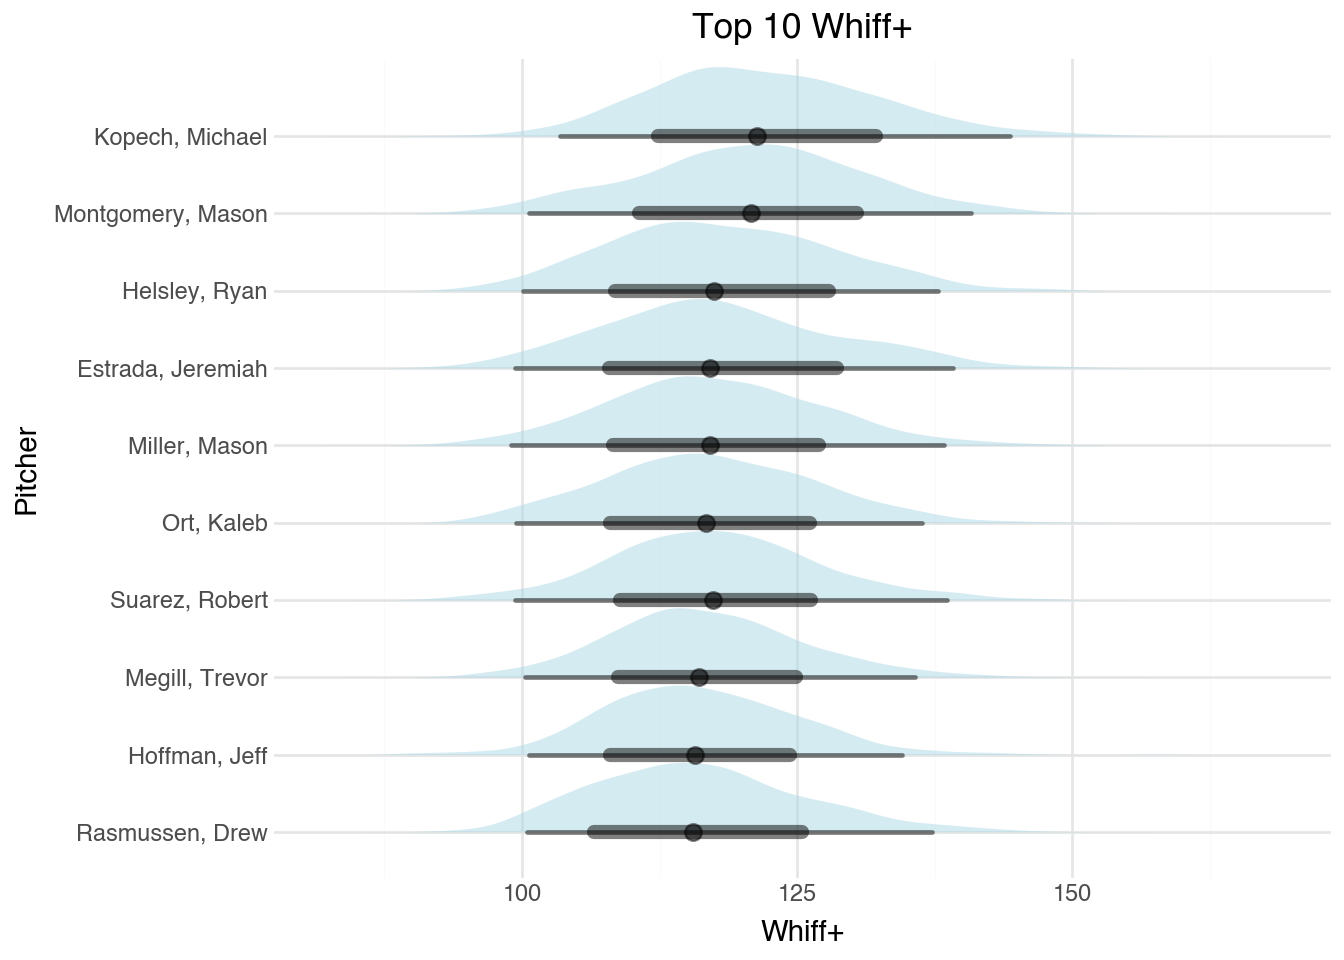
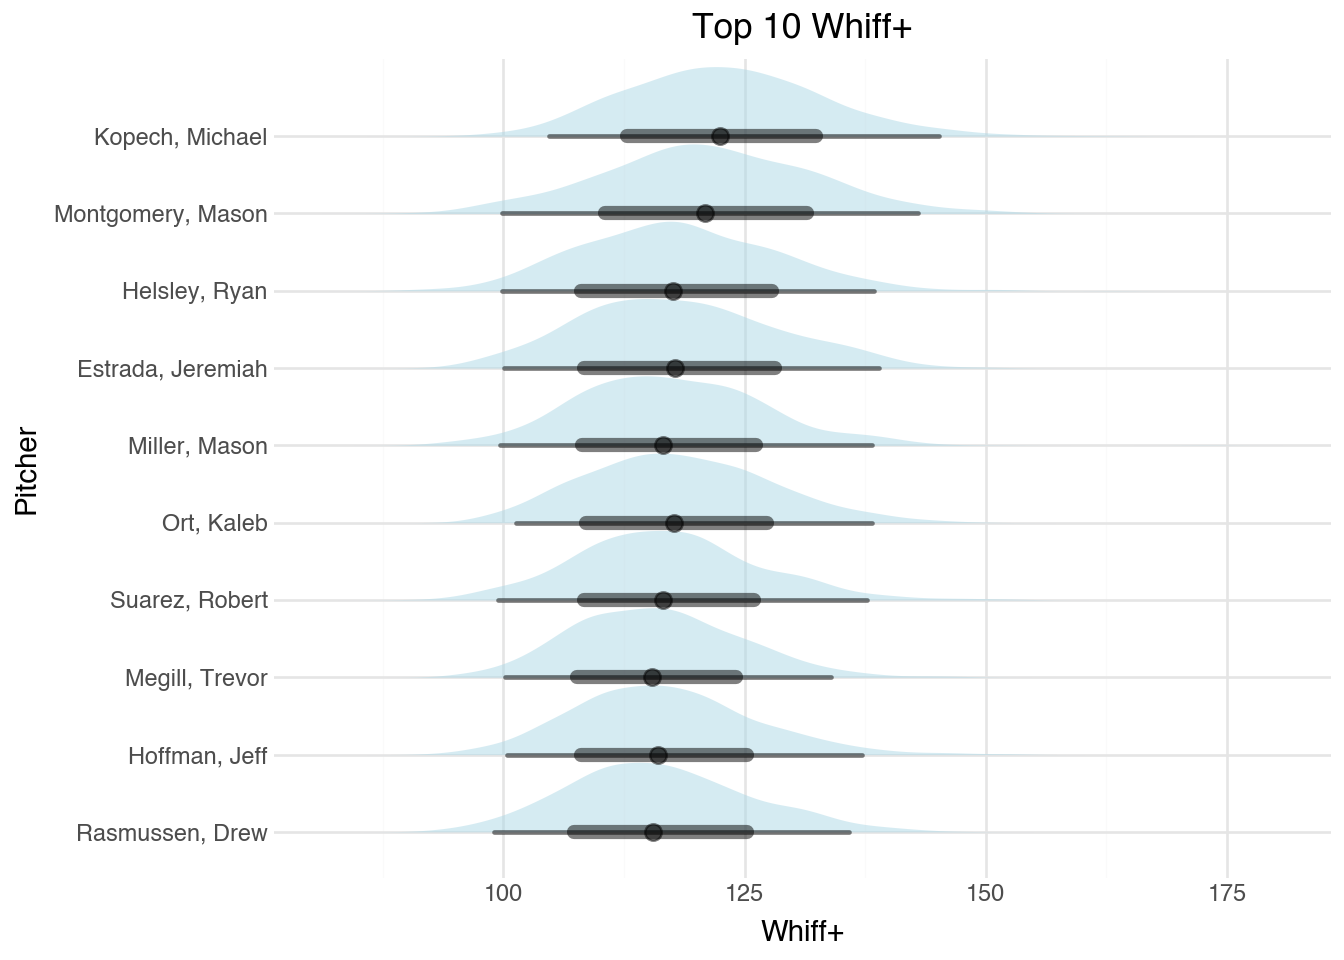
send it

diff --git a/_site/posts/2026-02-20-pymc-bart-baseball/index.html b/_site/posts/2026-02-20-pymc-bart-baseball/index.html
@@ -295,7 +295,13 @@ Note
 </section>
 <section id="model" class="level2">
 <h2 class="anchored" data-anchor-id="model">Model</h2>
-<p>The first model replicates PyMC Lab’s 4-feature model. If my sports logic is somewhat correct for how they filtered the data, the rest was fairly straightforward. - filter for <code>4-Seam Fastball</code> - calculate whiffs as swings - I removed 200 records with null values - Split into train/test splits</p>
+<p>The first model replicates PyMC Lab’s 4-feature model. If my sports logic is somewhat correct for how they filtered the data, the rest was fairly straightforward.</p>
+<ul>
+<li>filter for <code>4-Seam Fastball</code></li>
+<li>calculate whiffs as swings</li>
+<li>I removed 200 records with null values</li>
+<li>Split into train/test splits</li>
+</ul>
 <div class="cell" data-execution_count="3">
 <details>
 <summary>Code</summary>
@@ -351,11 +357,22 @@ Note
 <span id="cb3-50"><a href="#cb3-50" aria-hidden="true" tabindex="-1"></a>coords <span class="op">=</span> {<span class="st">"obs"</span>: player_names_train}</span></code><button title="Copy to Clipboard" class="code-copy-button"><i class="bi"></i></button></pre></div>
 </details>
 </div>
-<p>{::: {.callout-caution}</p>
+<div class="callout callout-style-default callout-caution callout-titled">
+<div class="callout-header d-flex align-content-center">
+<div class="callout-icon-container">
+<i class="callout-icon"></i>
+</div>
+<div class="callout-title-container flex-fill">
+Caution
+</div>
+</div>
+<div class="callout-body-container callout-body">
 <p>Working with the posterior <code>az.InferenceData</code> object turned out to have different behavior than expected. One of the biggest gotchas was how BART models are saved to disk, and the tree information you lose when starting a new session. I’ve implemented it below, but it is covered in this <a href="https://github.com/pymc-devs/pymc-bart/issues/123#issuecomment-3105432020">GitHub issue</a></p>
 <p>Essentially I was able to still save the object and load it into new sessions to continue working with the posterior, however the tree information was not saved with the object (that is the extent of my understanding). Coming back to this in a new session, only the posterior distributions for the saved parameters and values were available. Predictions were all off.</p>
 <p>I ended up finding a solution documented in this <a href="https://github.com/pymc-devs/pymc-bart/issues/123#issuecomment-3105432020">GitHub issue</a>.</p>
-<p>So here, I’m saving the <code>az.InferenceData</code> object and additionally a pickle file of the trees. Later on I used the functions in that github issue to do predictions. :::}</p>
+<p>So here, I’m saving the <code>az.InferenceData</code> object and additionally a pickle file of the trees. Later on I used the functions in that github issue to do predictions.</p>
+</div>
+</div>
 <div class="cell" data-execution_count="4">
 <div class="sourceCode cell-code" id="cb4"><pre class="sourceCode python code-with-copy"><code class="sourceCode python"><span id="cb4-1"><a href="#cb4-1" aria-hidden="true" tabindex="-1"></a><span class="cf">if</span> (</span>
 <span id="cb4-2"><a href="#cb4-2" aria-hidden="true" tabindex="-1"></a>    RERUN</span>
@@ -424,13 +441,13 @@ Note
 <h3 class="anchored" data-anchor-id="calibration-plots">Calibration Plots</h3>
 <div class="cell" data-execution_count="8">
 <div class="sourceCode cell-code" id="cb8"><pre class="sourceCode python code-with-copy"><code class="sourceCode python"><span id="cb8-1"><a href="#cb8-1" aria-hidden="true" tabindex="-1"></a>calibration_plot(p_train, y_train, label<span class="op">=</span><span class="st">"Train"</span>)</span></code><button title="Copy to Clipboard" class="code-copy-button"><i class="bi"></i></button></pre></div>
-<div class="cell-output cell-output-display" data-execution_count="7">
+<div class="cell-output cell-output-display" data-execution_count="25">
 <p><img src="index_files/figure-html/cell-9-output-1.png" width="672" height="480"></p>
 </div>
 </div>
 <div class="cell" data-execution_count="9">
 <div class="sourceCode cell-code" id="cb9"><pre class="sourceCode python code-with-copy"><code class="sourceCode python"><span id="cb9-1"><a href="#cb9-1" aria-hidden="true" tabindex="-1"></a>calibration_plot(p_test, y_test, label<span class="op">=</span><span class="st">"Test"</span>)</span></code><button title="Copy to Clipboard" class="code-copy-button"><i class="bi"></i></button></pre></div>
-<div class="cell-output cell-output-display" data-execution_count="8">
+<div class="cell-output cell-output-display" data-execution_count="26">
 <p><img src="index_files/figure-html/cell-10-output-1.png" width="672" height="480"></p>
 </div>
 </div>
@@ -461,7 +478,7 @@ Note
 <span id="cb11-2"><a href="#cb11-2" aria-hidden="true" tabindex="-1"></a>    pl.col(<span class="st">"whiff_plus"</span>).median()</span>
 <span id="cb11-3"><a href="#cb11-3" aria-hidden="true" tabindex="-1"></a>).sort(<span class="st">"whiff_plus"</span>, descending<span class="op">=</span><span class="va">True</span>)</span>
 <span id="cb11-4"><a href="#cb11-4" aria-hidden="true" tabindex="-1"></a>leaderboard</span></code><button title="Copy to Clipboard" class="code-copy-button"><i class="bi"></i></button></pre></div>
-<div class="cell-output cell-output-display" data-execution_count="10">
+<div class="cell-output cell-output-display" data-execution_count="28">
 <div><style>
 .dataframe > thead > tr,
 .dataframe > tbody > tr {
@@ -536,7 +553,7 @@ Note
 <h3 class="anchored" data-anchor-id="visualizing-the-leaderboard">Visualizing the leaderboard</h3>
 <p>The size of the dataset did not lend well to work with the new package. In its current state, <code>bayestidy</code> will convert everything to pandas in underlying <code>plotnine</code> functions, as it is yet to have first class <code>polars</code> support.</p>
 <div class="callout callout-style-default callout-note callout-titled">
-<div class="callout-header d-flex align-content-center" data-bs-toggle="collapse" data-bs-target=".callout-2-contents" aria-controls="callout-2" aria-expanded="false" aria-label="Toggle callout">
+<div class="callout-header d-flex align-content-center" data-bs-toggle="collapse" data-bs-target=".callout-3-contents" aria-controls="callout-3" aria-expanded="false" aria-label="Toggle callout">
 <div class="callout-icon-container">
 <i class="callout-icon"></i>
 </div>
@@ -545,7 +562,7 @@ Note
 </div>
 <div class="callout-btn-toggle d-inline-block border-0 py-1 ps-1 pe-0 float-end"><i class="callout-toggle"></i></div>
 </div>
-<div id="callout-2" class="callout-2-contents callout-collapse collapse">
+<div id="callout-3" class="callout-3-contents callout-collapse collapse">
 <div class="callout-body-container callout-body">
 <p>This is a long-standing <a href="https://github.com/has2k1/plotnine/issues/602">issue</a> that needs a solution, outside of polars from what I can tell.</p>
 </div>
@@ -607,7 +624,7 @@ Note
 <span id="cb14-4"><a href="#cb14-4" aria-hidden="true" tabindex="-1"></a></span>
 <span id="cb14-5"><a href="#cb14-5" aria-hidden="true" tabindex="-1"></a>plot_top</span></code><button title="Copy to Clipboard" class="code-copy-button"><i class="bi"></i></button></pre></div>
 </details>
-<div class="cell-output cell-output-display" data-execution_count="12">
+<div class="cell-output cell-output-display" data-execution_count="30">
 <p><img src="index_files/figure-html/cell-14-output-1.png" width="672" height="480"></p>
 </div>
 </div>
@@ -616,7 +633,7 @@ Note
 <summary>Code</summary>
 <div class="sourceCode cell-code" id="cb15"><pre class="sourceCode python code-with-copy"><code class="sourceCode python"><span id="cb15-1"><a href="#cb15-1" aria-hidden="true" tabindex="-1"></a>plot_bottom</span></code><button title="Copy to Clipboard" class="code-copy-button"><i class="bi"></i></button></pre></div>
 </details>
-<div class="cell-output cell-output-display" data-execution_count="13">
+<div class="cell-output cell-output-display" data-execution_count="31">
 <p><img src="index_files/figure-html/cell-15-output-1.png" width="672" height="480"></p>
 </div>
 </div>
@@ -798,13 +815,13 @@ Note
 </div>
 <div class="cell" data-execution_count="18">
 <div class="sourceCode cell-code" id="cb19"><pre class="sourceCode python code-with-copy"><code class="sourceCode python"><span id="cb19-1"><a href="#cb19-1" aria-hidden="true" tabindex="-1"></a>calibration_plot(p_imp_train, y_imp_train, label<span class="op">=</span><span class="st">"Train (Improved)"</span>)</span></code><button title="Copy to Clipboard" class="code-copy-button"><i class="bi"></i></button></pre></div>
-<div class="cell-output cell-output-display" data-execution_count="17">
+<div class="cell-output cell-output-display" data-execution_count="35">
 <p><img src="index_files/figure-html/cell-19-output-1.png" width="672" height="480"></p>
 </div>
 </div>
 <div class="cell" data-execution_count="19">
 <div class="sourceCode cell-code" id="cb20"><pre class="sourceCode python code-with-copy"><code class="sourceCode python"><span id="cb20-1"><a href="#cb20-1" aria-hidden="true" tabindex="-1"></a>calibration_plot(p_imp_test, y_imp_test, label<span class="op">=</span><span class="st">"Test (Improved)"</span>)</span></code><button title="Copy to Clipboard" class="code-copy-button"><i class="bi"></i></button></pre></div>
-<div class="cell-output cell-output-display" data-execution_count="18">
+<div class="cell-output cell-output-display" data-execution_count="36">
 <p><img src="index_files/figure-html/cell-20-output-1.png" width="672" height="480"></p>
 </div>
 </div>
@@ -830,7 +847,7 @@ Note
 <span id="cb21-13"><a href="#cb21-13" aria-hidden="true" tabindex="-1"></a>)</span>
 <span id="cb21-14"><a href="#cb21-14" aria-hidden="true" tabindex="-1"></a>leaderboard_imp</span></code><button title="Copy to Clipboard" class="code-copy-button"><i class="bi"></i></button></pre></div>
 </details>
-<div class="cell-output cell-output-display" data-execution_count="19">
+<div class="cell-output cell-output-display" data-execution_count="37">
 <div><style>
 .dataframe > thead > tr,
 .dataframe > tbody > tr {
@@ -932,7 +949,7 @@ Note
 <span id="cb22-14"><a href="#cb22-14" aria-hidden="true" tabindex="-1"></a></span>
 <span id="cb22-15"><a href="#cb22-15" aria-hidden="true" tabindex="-1"></a>plot_top_imp</span></code><button title="Copy to Clipboard" class="code-copy-button"><i class="bi"></i></button></pre></div>
 </details>
-<div class="cell-output cell-output-display" data-execution_count="20">
+<div class="cell-output cell-output-display" data-execution_count="38">
 <p><img src="index_files/figure-html/cell-22-output-1.png" width="672" height="480"></p>
 </div>
 </div>
@@ -941,7 +958,7 @@ Note
 <summary>Code</summary>
 <div class="sourceCode cell-code" id="cb23"><pre class="sourceCode python code-with-copy"><code class="sourceCode python"><span id="cb23-1"><a href="#cb23-1" aria-hidden="true" tabindex="-1"></a>plot_bottom_imp</span></code><button title="Copy to Clipboard" class="code-copy-button"><i class="bi"></i></button></pre></div>
 </details>
-<div class="cell-output cell-output-display" data-execution_count="21">
+<div class="cell-output cell-output-display" data-execution_count="39">
 <p><img src="index_files/figure-html/cell-23-output-1.png" width="672" height="480"></p>
 </div>
 </div>
@@ -975,7 +992,7 @@ Note
 <span id="cb24-21"><a href="#cb24-21" aria-hidden="true" tabindex="-1"></a>    <span class="op">+</span> theme_minimal()</span>
 <span id="cb24-22"><a href="#cb24-22" aria-hidden="true" tabindex="-1"></a>    <span class="op">+</span> theme(panel_grid_minor<span class="op">=</span>element_blank())</span>
 <span id="cb24-23"><a href="#cb24-23" aria-hidden="true" tabindex="-1"></a>)</span></code><button title="Copy to Clipboard" class="code-copy-button"><i class="bi"></i></button></pre></div>
-<div class="cell-output cell-output-display" data-execution_count="22">
+<div class="cell-output cell-output-display" data-execution_count="40">
 <p><img src="index_files/figure-html/cell-24-output-1.png" width="672" height="480"></p>
 </div>
 </div>
@@ -1033,7 +1050,7 @@ Note
 <span id="cb26-16"><a href="#cb26-16" aria-hidden="true" tabindex="-1"></a>    <span class="op">+</span> theme(panel_grid_minor<span class="op">=</span> element_blank(), panel_grid_major_y<span class="op">=</span>element_blank(), legend_position<span class="op">=</span><span class="st">'bottom'</span>)</span>
 <span id="cb26-17"><a href="#cb26-17" aria-hidden="true" tabindex="-1"></a>    <span class="op">+</span> labs(y <span class="op">=</span> <span class="st">''</span>, title<span class="op">=</span><span class="st">"Kopech estimated parameter comparison"</span>)</span>
 <span id="cb26-18"><a href="#cb26-18" aria-hidden="true" tabindex="-1"></a>)</span></code><button title="Copy to Clipboard" class="code-copy-button"><i class="bi"></i></button></pre></div>
-<div class="cell-output cell-output-display" data-execution_count="24">
+<div class="cell-output cell-output-display" data-execution_count="42">
 <p><img src="index_files/figure-html/cell-26-output-1.png" width="672" height="480"></p>
 </div>
 </div>

diff --git a/_site/index.html b/_site/index.html
@@ -170,7 +170,7 @@ ul.task-list li input[type="checkbox"] {
 
 <div class="quarto-listing quarto-listing-container-default" id="listing-listing">
 <div class="list quarto-listing-default">
-<div class="quarto-post image-right" data-index="0" data-categories="Bayesian,PyMC,BART" data-listing-date-sort="1771570800000" data-listing-file-modified-sort="1771968080340" data-listing-date-modified-sort="NaN" data-listing-reading-time-sort="19">
+<div class="quarto-post image-right" data-index="0" data-categories="Bayesian,PyMC,BART" data-listing-date-sort="1771570800000" data-listing-file-modified-sort="1771969397346" data-listing-date-modified-sort="NaN" data-listing-reading-time-sort="19">
 <div class="thumbnail">
 <p><a href="./posts/2026-02-20-pymc-bart-baseball/index.html"> <p class="card-img-top"><img src="posts/2026-02-20-pymc-bart-baseball/index_files/figure-html/cell-9-output-1.png"  class="thumbnail-image card-img"/></p> </a></p>
 </div>
